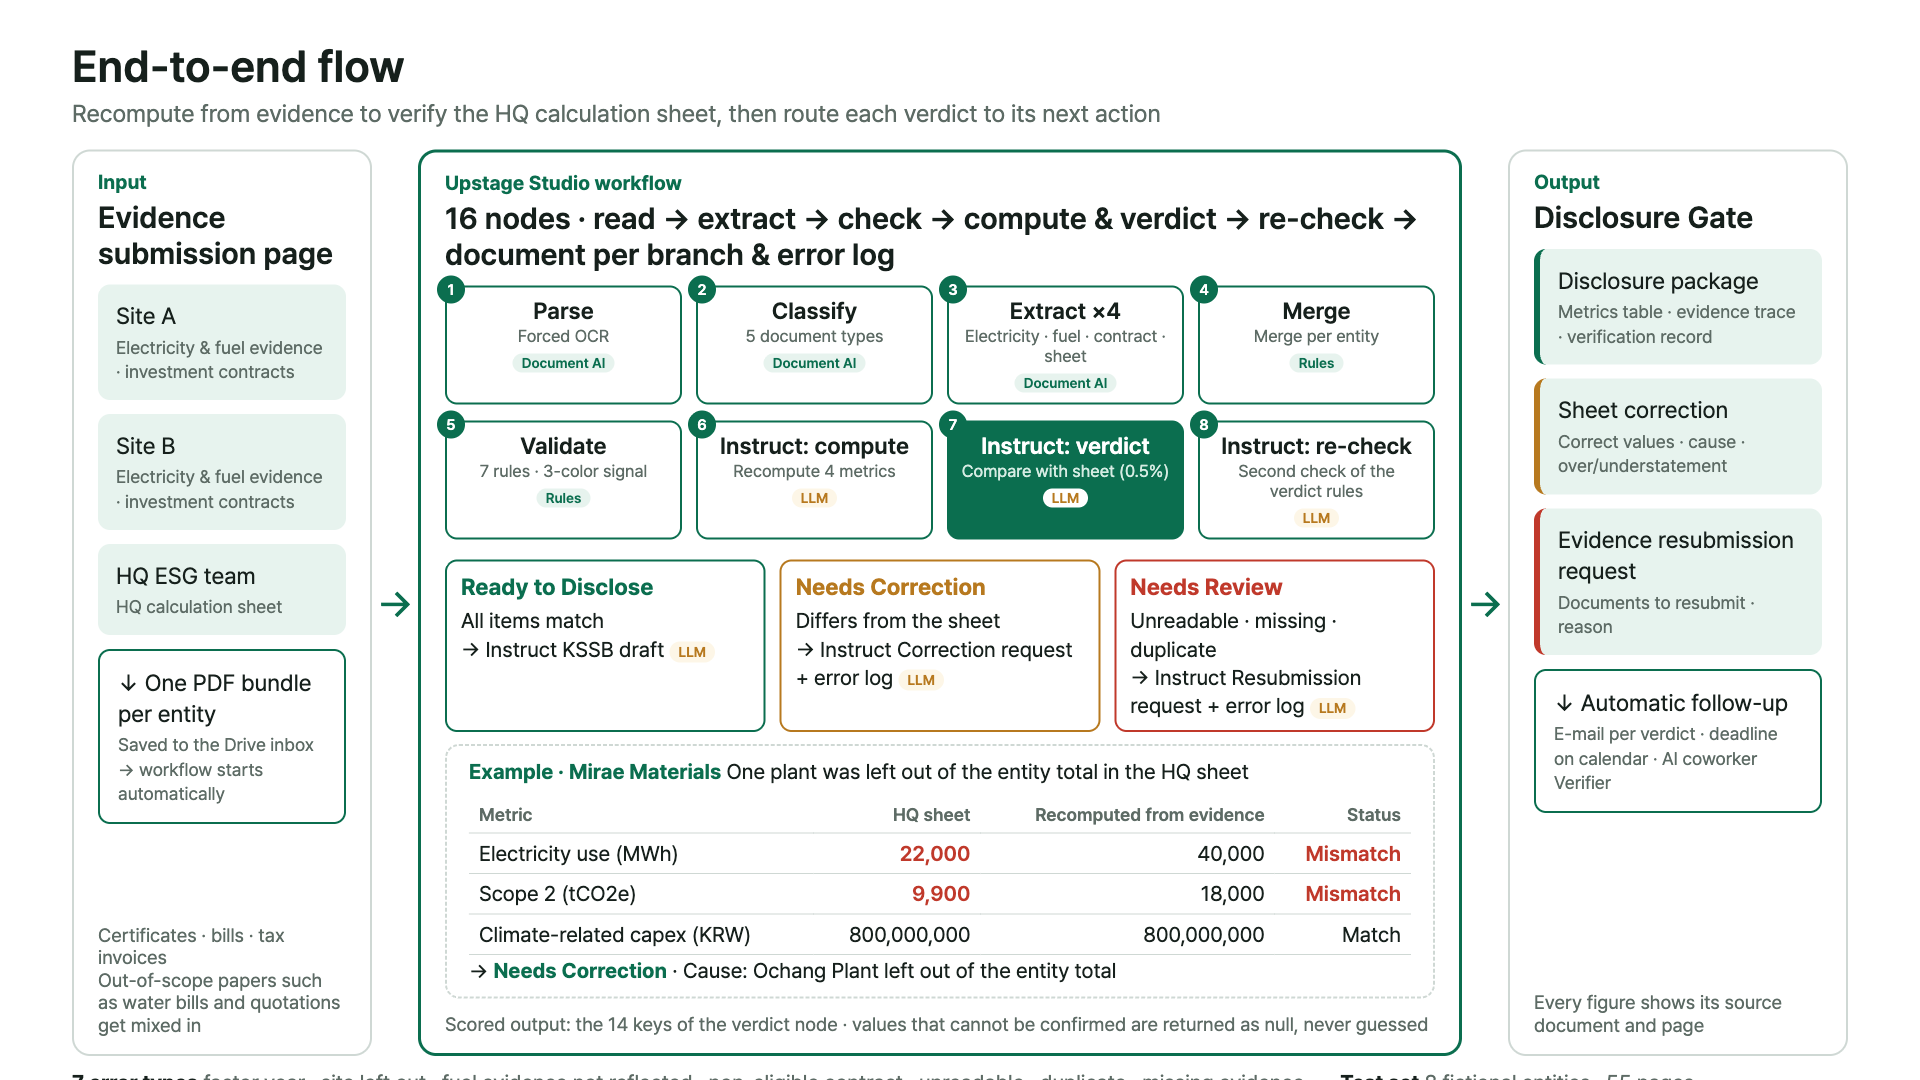
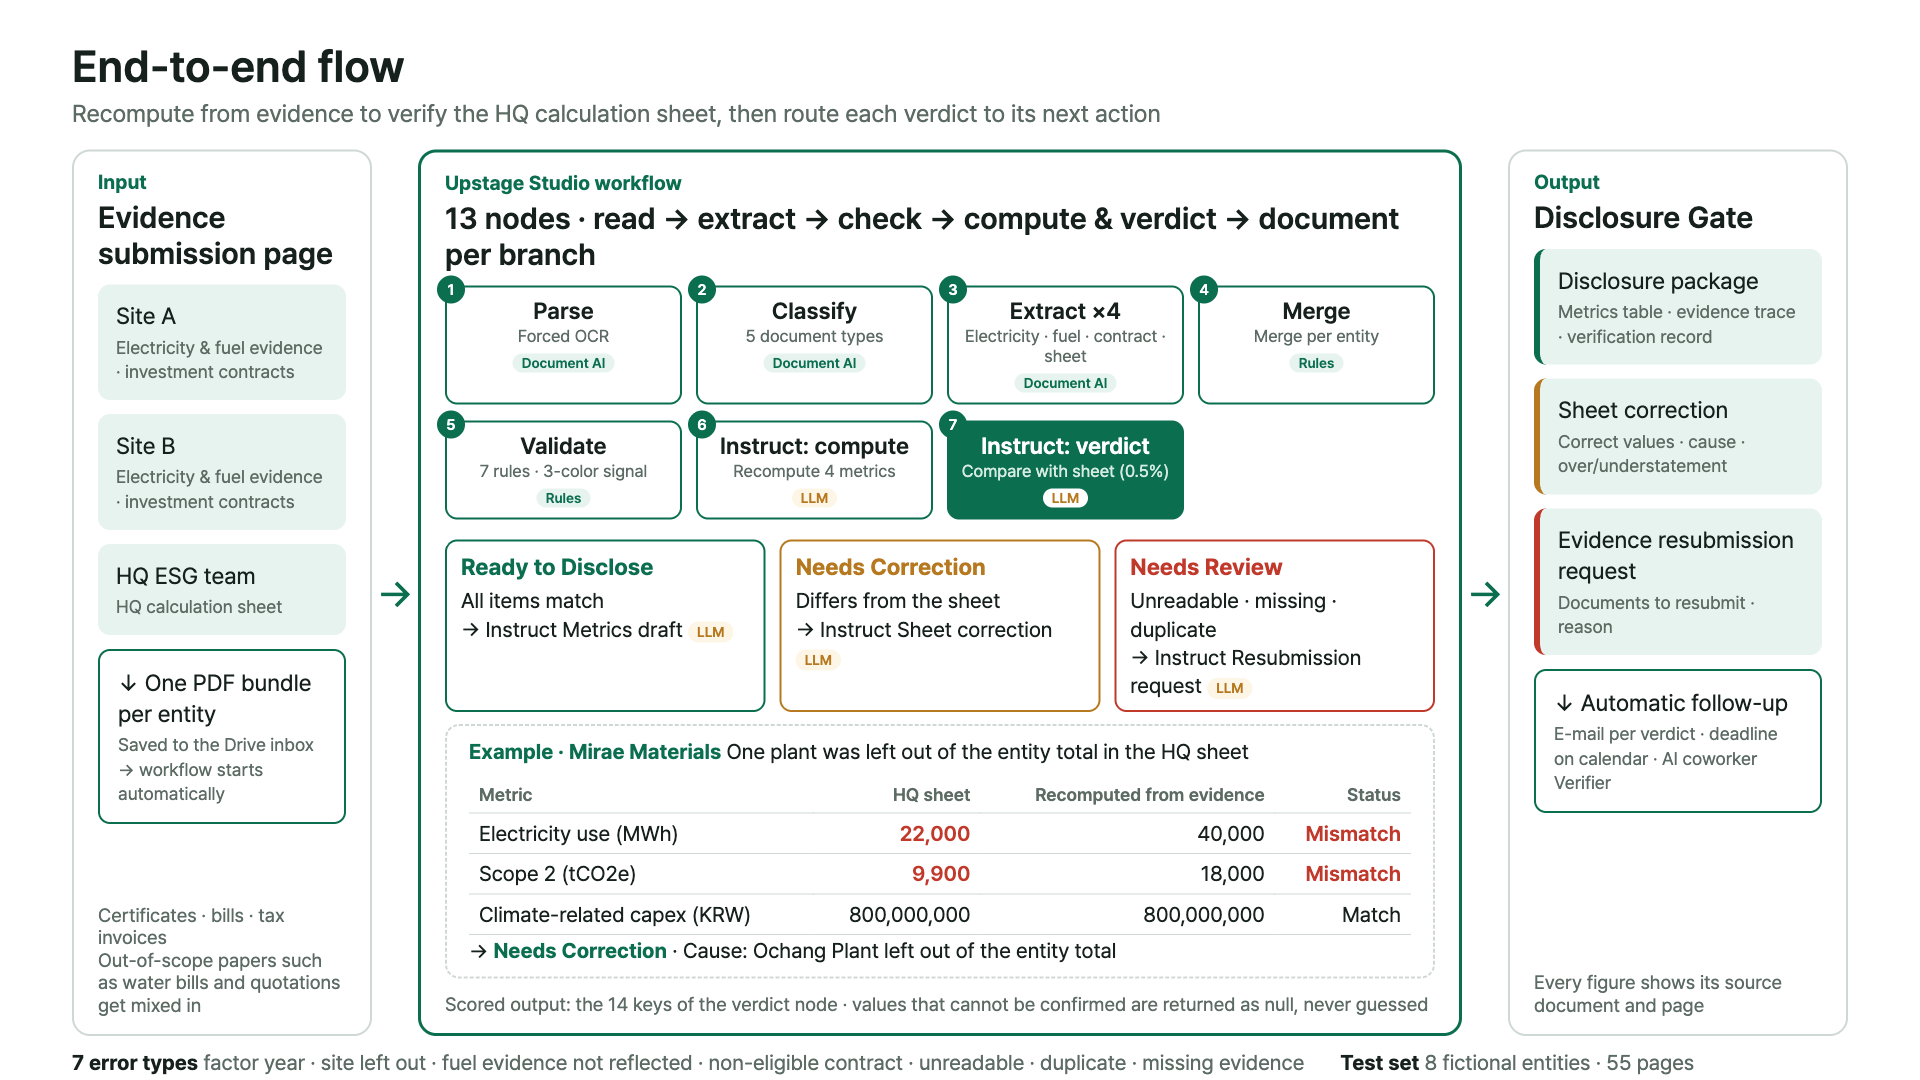
흐름도를 제출 워크플로우(13노드)에 맞춤

diff --git a/en/index.html b/en/index.html
@@ -123,7 +123,7 @@ footer{padding:36px 0 48px;color:var(--sub);font-size:13.5px;border-top:1px soli
     <div class="card"><div class="step">04</div><h3>Calculate · Decide</h3><p>Recalculates the four metrics and compares them with the calculation sheet at a 0.5% threshold.</p><span class="node">Instruct ×2</span></div>
     <div class="card"><div class="step">05</div><h3>Draft</h3><p>Writes the KSSB No. 2 metrics table and review comments.</p><span class="node">Instruct</span></div>
   </div>
-  <div class="frame" style="margin-top:26px"><img src="img/flow.png" alt="Overall flow diagram: evidence submission by Site A, Site B and the HQ ESG team, the 16 nodes of the Upstage Studio workflow, and the Disclosure Gate"></div>
+  <div class="frame" style="margin-top:26px"><img src="img/flow.png" alt="Overall flow diagram: evidence submission by Site A, Site B and the HQ ESG team, the 13 nodes of the Upstage Studio workflow, and the Disclosure Gate"></div>
 </div></section>
 
 <section><div class="w">

diff --git a/index.html b/index.html
@@ -123,7 +123,7 @@ footer{padding:36px 0 48px;color:var(--sub);font-size:13.5px;border-top:1px soli
     <div class="card"><div class="step">04</div><h3>산정·판정</h3><p>네 지표를 다시 계산하고 산정표와 0.5% 기준으로 대조합니다.</p><span class="node">Instruct ×2</span></div>
     <div class="card"><div class="step">05</div><h3>초안</h3><p>KSSB 2호 지표표와 검토 의견을 작성합니다.</p><span class="node">Instruct</span></div>
   </div>
-  <div class="frame" style="margin-top:26px"><img src="img/flow.png" alt="전체 흐름도: 사업장 A·B와 본사 ESG팀의 증빙 제출, Upstage Studio 워크플로우 16개 노드, 공시 게이트"></div>
+  <div class="frame" style="margin-top:26px"><img src="img/flow.png" alt="전체 흐름도: 사업장 A·B와 본사 ESG팀의 증빙 제출, Upstage Studio 워크플로우 13개 노드, 공시 게이트"></div>
 </div></section>
 
 <section><div class="w">

diff --git a/landing.html b/landing.html
@@ -123,7 +123,7 @@ footer{padding:36px 0 48px;color:var(--sub);font-size:13.5px;border-top:1px soli
     <div class="card"><div class="step">04</div><h3>산정·판정</h3><p>네 지표를 다시 계산하고 산정표와 0.5% 기준으로 대조합니다.</p><span class="node">Instruct ×2</span></div>
     <div class="card"><div class="step">05</div><h3>초안</h3><p>KSSB 2호 지표표와 검토 의견을 작성합니다.</p><span class="node">Instruct</span></div>
   </div>
-  <div class="frame" style="margin-top:26px"><img src="img/flow.png" alt="전체 흐름도: 사업장 A·B와 본사 ESG팀의 증빙 제출, Upstage Studio 워크플로우 16개 노드, 공시 게이트"></div>
+  <div class="frame" style="margin-top:26px"><img src="img/flow.png" alt="전체 흐름도: 사업장 A·B와 본사 ESG팀의 증빙 제출, Upstage Studio 워크플로우 13개 노드, 공시 게이트"></div>
 </div></section>
 
 <section><div class="w">
